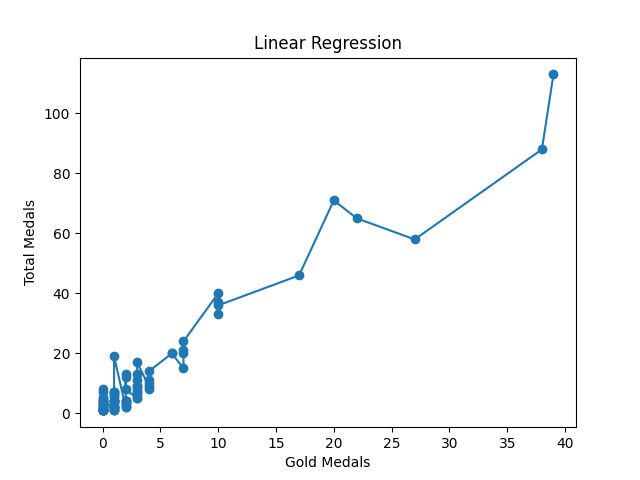
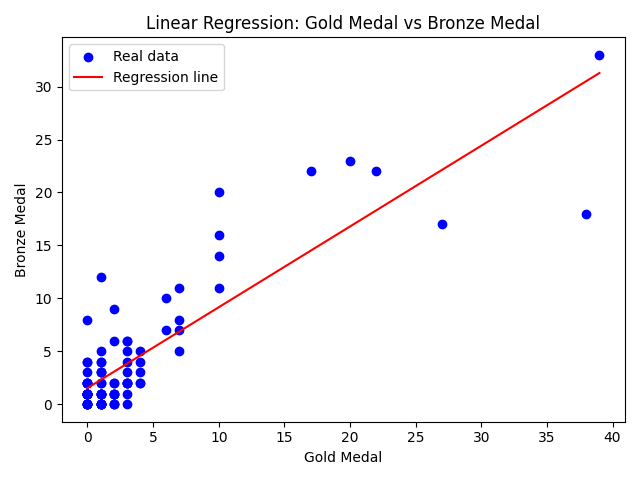
feat: update linear regression to support dynamic variable selection
- Removed hardcoded Gold/Silver/Bronze model trained at startup
- Model now trains dynamically on each prediction request
- User selects X (independent) and Y (dependent) variables via dropdowns
- Graph regenerates on each prediction showing selected variable relationship
- Added matplotlib Agg backend to prevent threading errors in Flask
- Updated linealRApplication.html with variable selectors and input field
- Updated mainMenu.html and navbar.html

diff --git a/templates/linealRApplication.html b/templates/linealRApplication.html
@@ -7,12 +7,11 @@
 </head>
 <body>
 
-{% include "navbar.html"%}
+{% include "navbar.html" %}
 
 <div class="container mt-4">
 
     <h1>Linear Regression - Application</h1>
-
     <hr>
 
     <h3>Problem Description</h3>
@@ -27,63 +26,67 @@
         during the Tokyo 2021 Olympic Games.
     </p>
 
-    <h3>Variables Used</h3>
-    <ul>
-        <li><strong>Independent Variables:</strong> Gold, Silver, Bronze</li>
-        <li><strong>Dependent Variable:</strong> Total Medals</li>
-    </ul>
-
     <h3>Data Preparation</h3>
     <p>
         The dataset was cleaned and processed by selecting relevant columns and ensuring that all values
         were numeric. Missing values were checked and handled before training the model.
     </p>
 
-    <h3>Regression Graph</h3>
-    <p>
-        The regression graph shows the relationship between the variables and helps visualize how well
-        the model fits the data.
-    </p>
-
-    <img src="{{ url_for('static', filename='graph.png') }}" class="img-fluid" alt="Regression Graph">
-
-    <h3 class="mt-4">Interpretation of Results</h3>
-    <p>
-        The model indicates a strong relationship between the number of gold, silver, and bronze medals
-        and the total number of medals. As these values increase, the predicted total medals also increase.
-    </p>
-
     <hr>
 
-    <h3>Prediction Form (Flask)</h3>
+    <h3>Prediction Form</h3>
+    <p>Select the independent variable (X), the dependent variable (Y), and enter a value to predict.</p>
 
     <form action="{{ url_for('predict') }}" method="POST">
 
         <div class="mb-3">
-            <label>Gold Medals</label>
-            <input type="number" name="gold" class="form-control" required>
+            <label class="form-label"><strong>Independent Variable (X)</strong></label>
+            <select name="x_variable" class="form-select" required>
+                <option value="" disabled selected>Select X variable</option>
+                {% for col in columns %}
+                    <option value="{{ col }}" {% if x_col == col %}selected{% endif %}>{{ col }}</option>
+                {% endfor %}
+            </select>
         </div>
 
         <div class="mb-3">
-            <label>Silver Medals</label>
-            <input type="number" name="silver" class="form-control" required>
+            <label class="form-label"><strong>Dependent Variable (Y)</strong></label>
+            <select name="y_variable" class="form-select" required>
+                <option value="" disabled selected>Select Y variable</option>
+                {% for col in columns %}
+                    <option value="{{ col }}" {% if y_col == col %}selected{% endif %}>{{ col }}</option>
+                {% endfor %}
+            </select>
         </div>
 
         <div class="mb-3">
-            <label>Bronze Medals</label>
-            <input type="number" name="bronze" class="form-control" required>
+            <label class="form-label"><strong>Enter value for X to predict Y</strong></label>
+            <input type="number" step="any" name="input_value" class="form-control"
+                   placeholder="e.g. 10" value="{{ input_value or '' }}" required>
         </div>
 
         <button type="submit" class="btn btn-success">Predict</button>
     </form>
 
-    {% if prediction %}
-        <div class="alert alert-info mt-3">
-            <strong>Prediction Result:</strong> {{ prediction }} total medals
+    {% if prediction is not none %}
+        <div class="alert alert-info mt-4">
+            <strong>Prediction Result:</strong> If <em>{{ x_col }}</em> = {{ input_value }},
+            then <em>{{ y_col }}</em> is approximately <strong>{{ prediction }}</strong>
         </div>
+
+        <h3 class="mt-4">Regression Graph</h3>
+        <p>The graph shows the relationship between <strong>{{ x_col }}</strong> and <strong>{{ y_col }}</strong>.</p>
+        <img src="{{ url_for('static', filename='graph.png') }}" class="img-fluid" alt="Regression Graph">
+
+        <h3 class="mt-4">Interpretation of Results</h3>
+        <p>
+            The model found a linear relationship between <strong>{{ x_col }}</strong> and <strong>{{ y_col }}</strong>.
+            The red line represents the regression line fitted to the data, while the blue dots represent the real values.
+        </p>
     {% endif %}
 
 </div>
 
+<script src="https://cdn.jsdelivr.net/npm/bootstrap@5.3.0/dist/js/bootstrap.bundle.min.js"></script>
 </body>
 </html>

diff --git a/templates/navbar.html b/templates/navbar.html
@@ -22,7 +22,7 @@
 
                         <ul class="dropdown-menu">
                             <li><a class="dropdown-item" href="{{ url_for('jm_page') }}">BBVA Pipeline</a></li>
-                            <li><a class="dropdown-item" href="{{ url_for('sg_page') }}">Sergio</a></li>
+                            <li><a class="dropdown-item" href="{{ url_for('sg_page') }}">BankFraud</a></li>
                             <li><a class="dropdown-item" href="{{ url_for('md_page') }}">Medina</a></li>
                             <li><a class="dropdown-item" href="{{ url_for('sb_page') }}">Santiago</a></li>
                         </ul>

diff --git a/templates/mainMenu.html b/templates/mainMenu.html
@@ -17,7 +17,7 @@
                 <h2>ML Use Case</h2>
                 <ul class="">
                     <li><a href="{{url_for('jm_page')}}">Case 1: BBVA Pipeline</a></li>
-                    <li><a href="{{url_for('sg_page')}}">Case 2: Sergio</a></li>
+                    <li><a href="{{url_for('sg_page')}}">Case 2: BankFrau</a></li>
                     <li><a href="{{url_for('md_page')}}">Case 3: Medina</a></li>
                     <li><a href="{{url_for('sb_page')}}">Case 4: Santiago</a></li>
                 </ul>

diff --git a/app.py b/app.py
@@ -1,6 +1,8 @@
 from flask import Flask, render_template, request
 import pandas as pd
 from sklearn.linear_model import LinearRegression
+import matplotlib
+matplotlib.use('Agg')
 import matplotlib.pyplot as plt
 
 app = Flask(__name__)
@@ -8,50 +10,20 @@ app = Flask(__name__)
 # ================== DATASET ==================
 df = pd.read_csv('medals.csv')
 
-# VARIABLES CORRECTAS
-X = df[['Gold Medal', 'Silver Medal', 'Bronze Medal']]
-y = df['Total']
-
-# MODELO
-model = LinearRegression()
-model.fit(X, y)
-
-# ================== GRÁFICA ==================
-plt.figure()
-
-x = df['Gold Medal']
-y_real = df['Total']
-y_pred = model.predict(X)
-
-plt.scatter(x, y_real)
-plt.plot(x, y_pred)
-
-plt.xlabel('Gold Medals')
-plt.ylabel('Total Medals')
-plt.title('Linear Regression')
-
-plt.savefig('static/graph.png')
-plt.close()
-
-
 # ================== RUTAS ==================
-
 @app.route('/')
 def home():
     return render_template('mainMenu.html')
 
-
 @app.route('/SG')
 def sg_page():
-    return render_template('Sergio.html')
-
+    return render_template('BankFraud.html')
 
 @app.route('/BBVA')
 def jm_page():
     return render_template('BBVAPipeline.html',
                            titulo="Case One",
                            des="Machine Learning Class")
-
 
 @app.route('/MD')
 def md_page():
@@ -60,35 +32,55 @@ def md_page():
     except Exception as e:
         return f"<h1>Error en /casodeuso</h1><p>{str(e)}</p>"
 
-
 @app.route('/SB')
 def sb_page():
     return render_template('santiago.html')
 
-
-# 🔥 NUEVAS RUTAS (OBLIGATORIAS)
 @app.route('/linearRegression/concepts')
 def linealConcept():
     return render_template('linealRConcepts.html')
 
-
+# Pasa las columnas del CSV al HTML para los dropdowns
 @app.route('/linearRegression/application')
 def linealApplication():
-    return render_template('linealRApplication.html')
+    columns = list(df.select_dtypes(include='number').columns)
+    return render_template('linealRApplication.html', columns=columns)
 
-
-# 🔥 PREDICCIÓN
+# ================== PREDICCION ==================
 @app.route('/predict', methods=['POST'])
 def predict():
-    gold = float(request.form['gold'])
-    silver = float(request.form['silver'])
-    bronze = float(request.form['bronze'])
+    x_col = request.form['x_variable']
+    y_col = request.form['y_variable']
+    input_value = float(request.form['input_value'])
 
-    prediction = model.predict([[gold, silver, bronze]])[0]
+    X = df[[x_col]]
+    y = df[y_col]
 
+    # Entrena el modelo con las variables seleccionadas por el usuario
+    model = LinearRegression()
+    model.fit(X, y)
+
+    # Genera la grafica con las variables elegidas
+    plt.figure()
+    plt.scatter(df[x_col], y, color='blue', label='Real data')
+    plt.plot(df[x_col], model.predict(X), color='red', label='Regression line')
+    plt.xlabel(x_col)
+    plt.ylabel(y_col)
+    plt.title(f'Linear Regression: {x_col} vs {y_col}')
+    plt.legend()
+    plt.tight_layout()
+    plt.savefig('static/graph.png')
+    plt.close()
+
+    prediction = model.predict([[input_value]])[0]
+
+    columns = list(df.select_dtypes(include='number').columns)
     return render_template('linealRApplication.html',
-                           prediction=round(prediction, 2))
-
+                           columns=columns,
+                           prediction=round(prediction, 2),
+                           x_col=x_col,
+                           y_col=y_col,
+                           input_value=input_value)
 
 # ================== RUN ==================
 if __name__ == '__main__':
